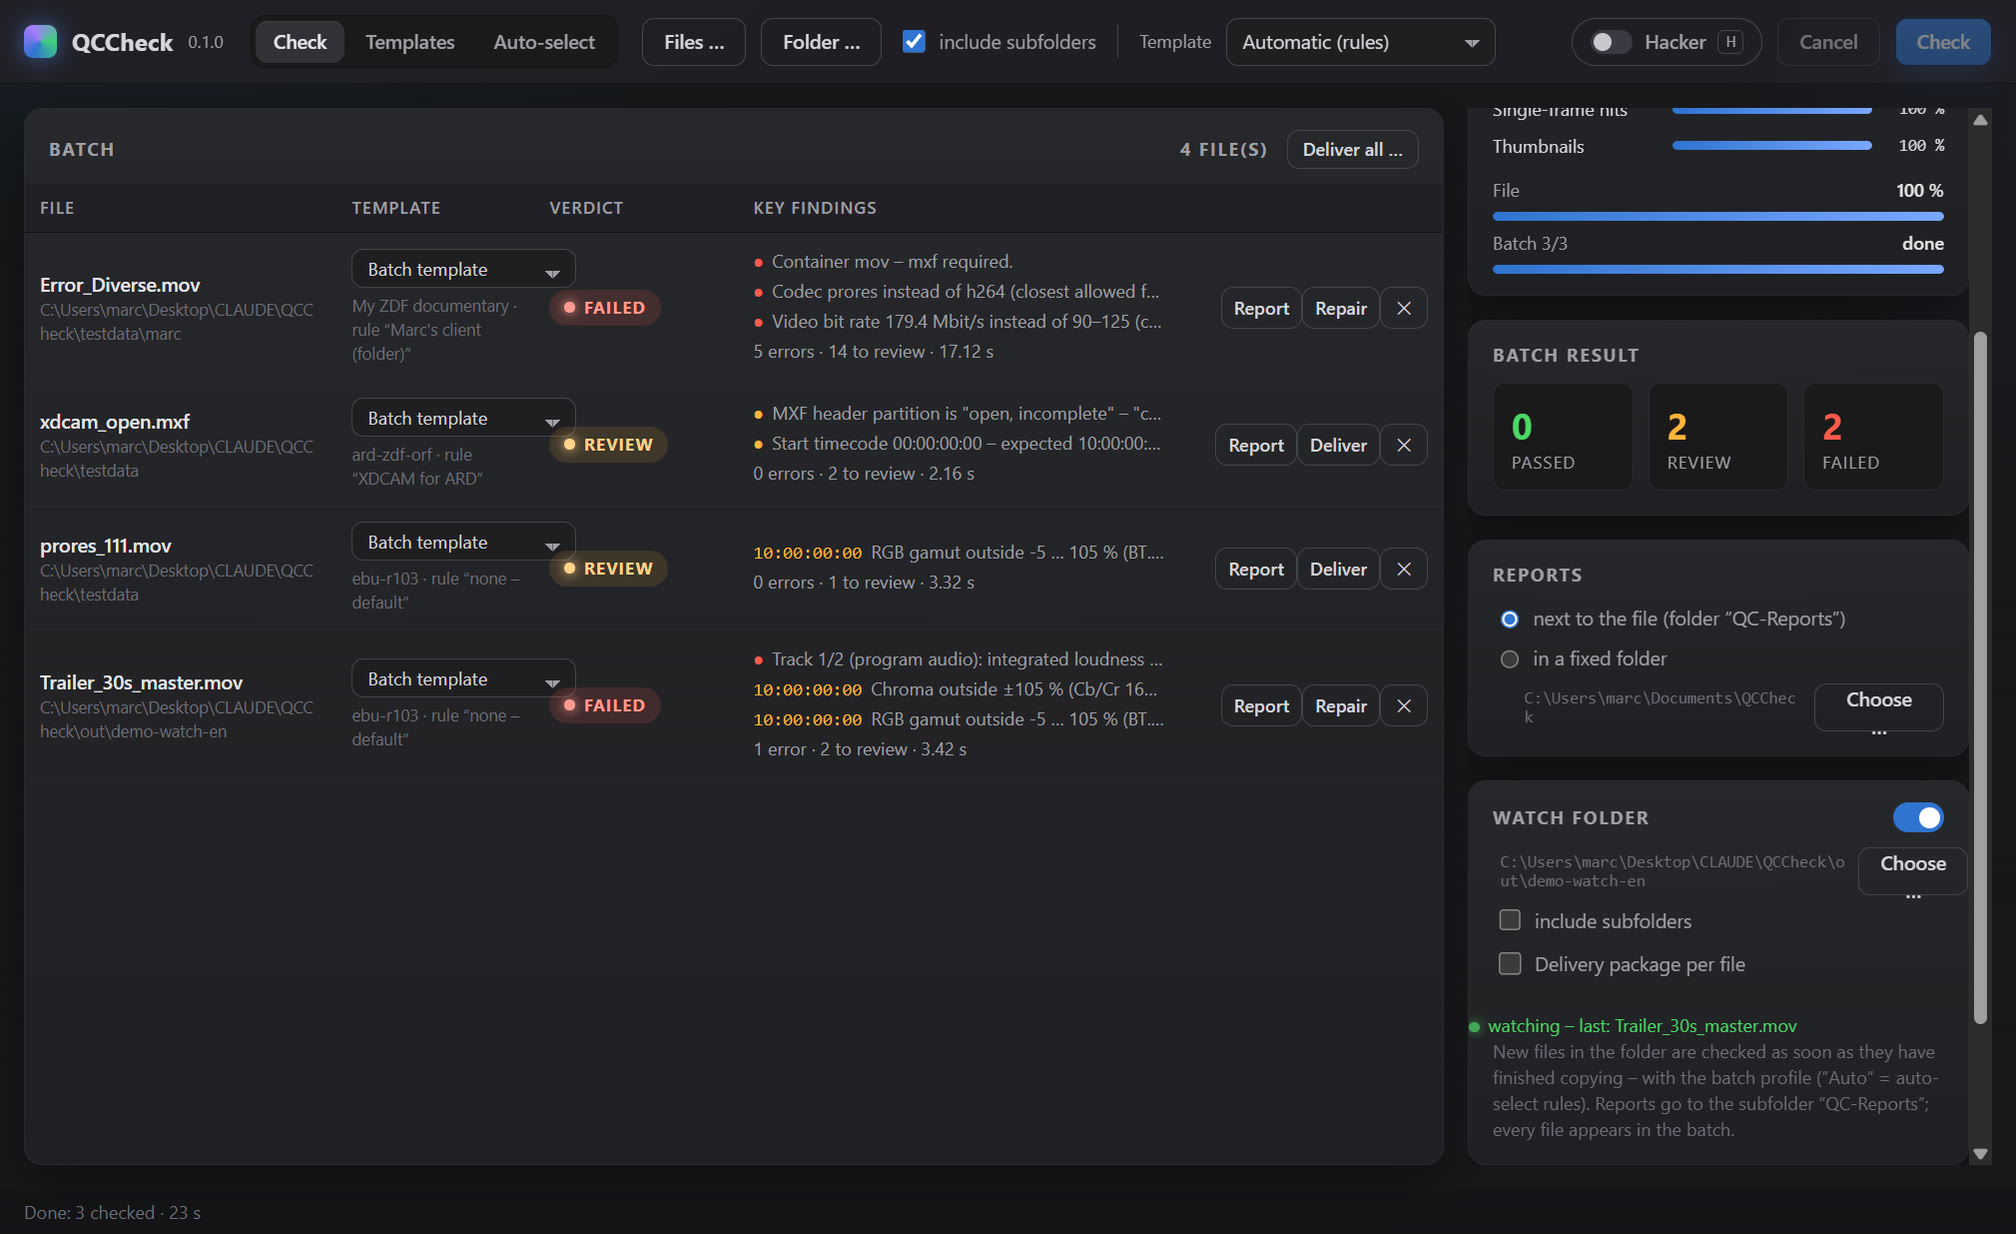
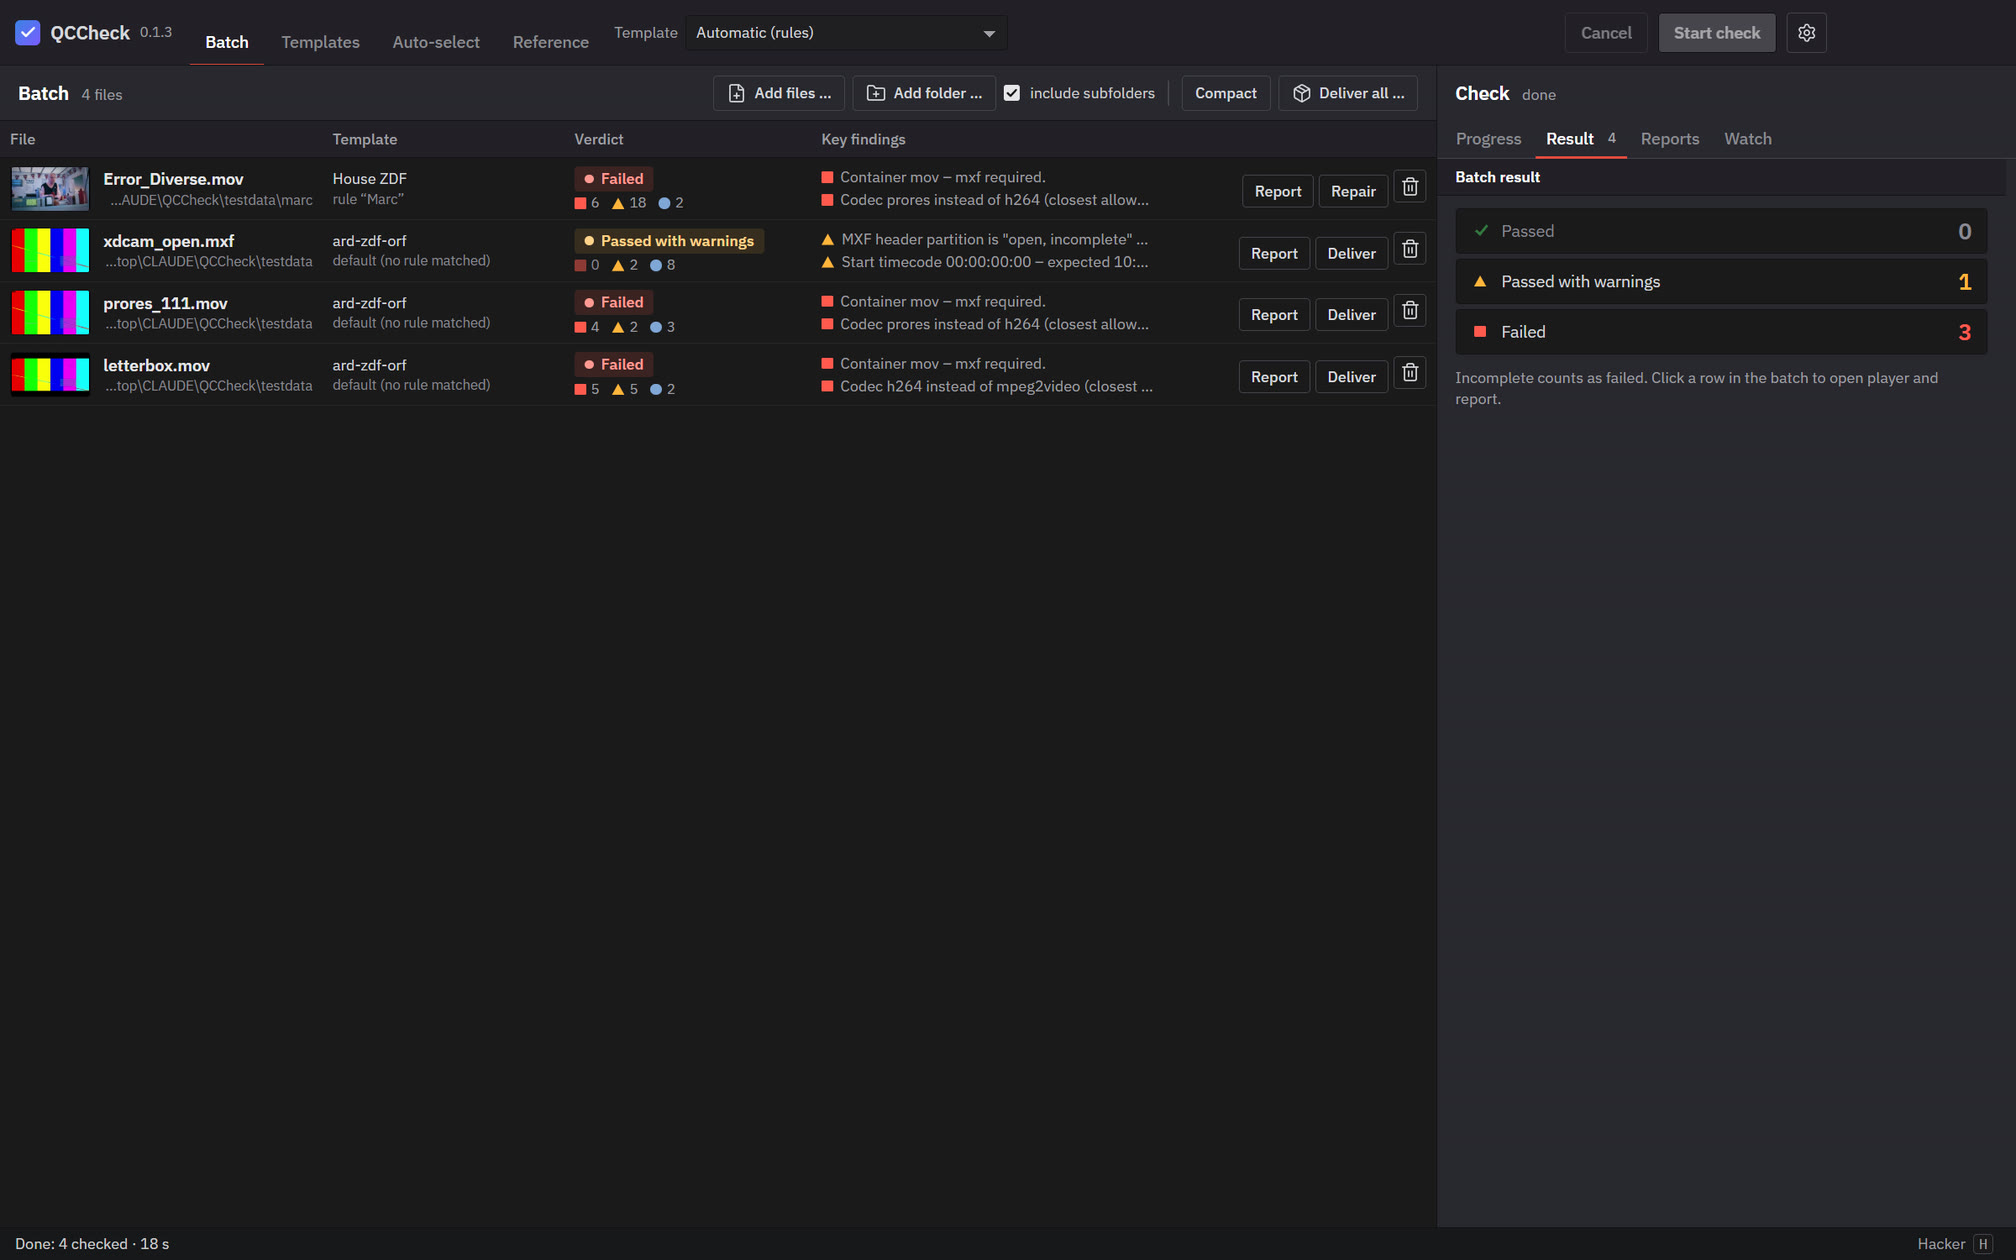
Bildschirmfotos der Oberfläche 0.1.3 (Player mit Werkzeugen, Stapel mit Vorschaubildern), 1x/2x

diff --git a/index.html b/index.html
@@ -40,7 +40,7 @@
   <section class="hero">
     <h1><span lang="en">QC before delivery – in one window</span><span lang="de">QC vor der Abgabe – in einem Fenster</span></h1>
     <p class="lead"><span lang="en">QCCheck checks transmission masters against the delivery specs of ARD, ZDF, ORF and SRF (TPR 2025, EBU R 103 / R 128): container, codec, start timecode, levels and gamut, loudness and True Peak, interlace, black and freeze frames, flashes, pixel faults. Every finding has a timecode, a frame and its source in the spec.</span><span lang="de">QCCheck prüft Sendemaster gegen die Pflichtenhefte von ARD, ZDF, ORF und SRF (TPR 2025, EBU R 103 / R 128): Container, Codec, Start-Timecode, Pegel und Gamut, Lautheit und True Peak, Halbbilder, Schwarz- und Standbilder, Blitze, Pixelfehler. Jeder Befund hat Timecode, Bild und seine Quelle im Pflichtenheft.</span></p>
-    <img class="shot" src="img/player.jpg" srcset="img/player.jpg 1008w, img/player@2x.jpg 2016w" sizes="(max-width: 1040px) calc(100vw - 32px), 1008px" width="1008" height="616" alt="QCCheck player with frame-accurate timeline, findings as markers, loudness and waveform">
+    <img class="shot" src="img/player.jpg" srcset="img/player.jpg 1008w, img/player@2x.jpg 2016w" sizes="(max-width: 1040px) calc(100vw - 32px), 1008px" width="1008" height="630" alt="QCCheck player with frame-accurate timeline, findings list, safe areas, zebra and waveform scope">
   </section>
 
   <section id="install" class="card install">
@@ -104,7 +104,7 @@
       <li><span lang="en"><b>Repair</b> – loudness, start timecode, line-up, levels, rewrap into a new file; the original stays untouched.</span><span lang="de"><b>Reparieren</b> – Lautheit, Start-Timecode, Vor-/Nachlauf, Pegel, neu verpacken in eine neue Datei; das Original bleibt.</span></li>
       <li><span lang="en"><b>Watch folder</b>, timecode continuity, Dolby E, bars &amp; tone, English and German.</span><span lang="de"><b>Überwachungsordner</b>, Timecode-Kontinuität, Dolby E, Farbbalken und Messton, Englisch und Deutsch.</span></li>
     </ul>
-    <img class="shot" src="img/batch.jpg" srcset="img/batch.jpg 1008w, img/batch@2x.jpg 2016w" sizes="(max-width: 1040px) calc(100vw - 32px), 1008px" width="1008" height="616" alt="QCCheck batch with verdicts, key findings and the watch folder">
+    <img class="shot" src="img/batch.jpg" srcset="img/batch.jpg 1008w, img/batch@2x.jpg 2016w" sizes="(max-width: 1040px) calc(100vw - 32px), 1008px" width="1008" height="630" alt="QCCheck batch with thumbnails, verdicts, key findings and the result tab">
   </section>
 
   <section id="requirements" class="card">
